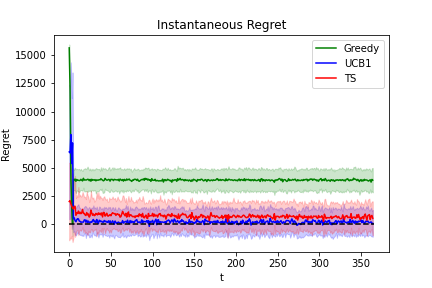
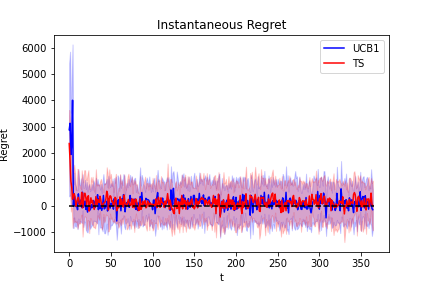
Step 1 completed

Changed region(s): [[0.1505, 0.1562, 0.8727, 0.8438], [0.0, 0.1562, 0.1204, 0.8438], [0.7222, 0.125, 0.9028, 0.3125]]

diff --git a/step_1.py b/step_1.py
@@ -8,35 +8,28 @@ from Learners.TS_Learner import TS_Learner
 from Learners.Greedy_Learner import Greedy_Learner
 from Learners.UCB1_Learner import UCB1_Learner
 
-# %% Create the three classes of users
+# %% Create user
 n_arm = 5
 Collector = UserC1()
 
-#selected_bid = np.argmax(Collector.click_vs_bid())
+T = 365
+n_experiments = 20
+
 selected_bid = 0.5
-#n_clicks = np.max(Collector.click_vs_bid())
-#cumulative_cost=Collector.cumulative_cost_vs_bid(selected_bid)
 n_clicks = Collector.click_vs_bid(selected_bid)
-cumulative_cost=Collector.cost_vs_bid(selected_bid)
+cost_of_click=Collector.cost_vs_bid(selected_bid)
 production_cost = 100
 
-avg_n_users = 1     # for future optimization
-#opt = max(Collector.prices * Collector.probabilities) * avg_n_users
-opt = max((Collector.prices-production_cost)*Collector.probabilities*n_clicks - cumulative_cost*n_clicks)
-
-T = 365
-
-n_experiments = 100
-ts_rewards_per_experiment = []
 gr_rewards_per_experiment = []
 ucb1_rewards_per_experiment = []
+ts_rewards_per_experiment = []
 
 # %% Run the experiments
 for e in range(0, n_experiments):
-    env = Environment(n_arms=n_arm, user=Collector)
-    ts_learner = TS_Learner(n_arms=n_arm, production_cost=production_cost, n_clicks=n_clicks, cumulative_cost=cumulative_cost)
-    gr_learner = Greedy_Learner(n_arms=n_arm, production_cost=production_cost, n_clicks=n_clicks, cumulative_cost=cumulative_cost)
-    ucb1_learner = UCB1_Learner(n_arms=n_arm, production_cost=production_cost, n_clicks=n_clicks, cumulative_cost=cumulative_cost, M = Collector._max_price)
+    env = Environment(n_arms=n_arm, user=Collector, selected_bid=selected_bid, production_cost=production_cost)
+    gr_learner = Greedy_Learner(n_arms=n_arm, production_cost=production_cost, n_clicks=n_clicks, cost_of_click=cost_of_click)
+    ucb1_learner = UCB1_Learner(n_arms=n_arm, production_cost=production_cost, n_clicks=n_clicks, cost_of_click=cost_of_click, M = Collector._max_price-production_cost)
+    ts_learner = TS_Learner(n_arms=n_arm, production_cost=production_cost, n_clicks=n_clicks, cost_of_click=cost_of_click)
     for t in range(0, T):
         # Greedy Learner
         pulled_arm = gr_learner.pull_arm()
@@ -59,7 +52,7 @@ for e in range(0, n_experiments):
     ts_rewards_per_experiment.append(ts_learner.collected_rewards)
 
 # %% Compute the regret
-# opt = env.max_reward()  # TODO implement this
+opt = env.max_reward()
 
 regret_greedy = opt - gr_rewards_per_experiment  # row = exp, col = t
 avg_regret_greedy = np.mean(regret_greedy, axis=0)
@@ -81,16 +74,16 @@ cum_std_regret_ts = np.std(np.cumsum(regret_ts, axis=1), axis=0)
 
 
 # %% Plot the cumulative regret
-fig = plt.figure(0)
+fig = plt.figure(0, facecolor='white')
 plt.xlabel("t")
 plt.ylabel("Regret")
-plt.plot(cum_avg_regret_greedy, 'g')
+# plt.plot(cum_avg_regret_greedy, 'g')
 plt.plot(cum_avg_regret_ucb1, 'b')
 plt.plot(cum_avg_regret_ts, 'r')
-plt.fill_between(range(len(cum_avg_regret_greedy)), cum_avg_regret_greedy - cum_std_regret_greedy, cum_avg_regret_greedy + cum_std_regret_greedy, alpha=0.2, color='g')
+#plt.fill_between(range(len(cum_avg_regret_greedy)), cum_avg_regret_greedy - cum_std_regret_greedy, cum_avg_regret_greedy + cum_std_regret_greedy, alpha=0.2, color='g')
 plt.fill_between(range(len(cum_avg_regret_ucb1)), cum_avg_regret_ucb1 - cum_std_regret_ucb1, cum_avg_regret_ucb1 + cum_std_regret_ucb1, alpha=0.2, color='b')
 plt.fill_between(range(len(cum_avg_regret_ts)), cum_avg_regret_ts - cum_std_regret_ts, cum_avg_regret_ts + cum_std_regret_ts, alpha=0.2, color='r')
-plt.legend(["Greedy", "UCB1", "TS"])
+plt.legend(["UCB1", "TS"]) # "Greedy",
 plt.title("Cumulative Regret")
 fig = plt.gcf()
 plt.show()
@@ -98,17 +91,17 @@ plt.show()
 fig.savefig("results/S1_cumulative_regret.png")
 
 # %% Plot the instantaneous regret
-fig = plt.figure(1)
+fig = plt.figure(1, facecolor='white')
 plt.xlabel("t")
 plt.ylabel("Regret")
-plt.plot(avg_regret_greedy, 'g')
+# plt.plot(avg_regret_greedy, 'g')
 plt.plot(avg_regret_ucb1, 'b')
 plt.plot(avg_regret_ts, 'r')
-plt.fill_between(range(len(avg_regret_greedy)), avg_regret_greedy - std_regret_greedy, avg_regret_greedy + std_regret_greedy, alpha=0.2, color='g')
+# plt.fill_between(range(len(avg_regret_greedy)), avg_regret_greedy - std_regret_greedy, avg_regret_greedy + std_regret_greedy, alpha=0.2, color='g')
 plt.fill_between(range(len(avg_regret_ucb1)), avg_regret_ucb1 - std_regret_ucb1, avg_regret_ucb1 + std_regret_ucb1, alpha=0.2, color='b')
 plt.fill_between(range(len(avg_regret_ts)), avg_regret_ts - std_regret_ts, avg_regret_ts + std_regret_ts, alpha=0.2, color='r')
 plt.hlines(0, 0, T, colors='black', linestyles='dashed')
-plt.legend(["Greedy", "UCB1", "TS"])
+plt.legend(["UCB1", "TS"]) # "Greedy",
 plt.title("Instantaneous Regret")
 fig = plt.gcf()
 plt.show()
@@ -133,16 +126,16 @@ cum_std_rreward_ts = np.std(np.cumsum(ts_rewards_per_experiment, axis=1), axis=0
 
 
 # %% Plot the cumulative reward
-plt.figure(2)
+plt.figure(2, facecolor='white')
 plt.xlabel("t")
 plt.ylabel("Reward")
-plt.plot(cum_avg_reward_greedy, 'g')
+# plt.plot(cum_avg_reward_greedy, 'g')
 plt.plot(cum_avg_reward_ucb1, 'b')
 plt.plot(cum_avg_reward_ts, 'r')
-plt.fill_between(range(len(cum_avg_reward_greedy)), cum_avg_reward_greedy - cum_std_rreward_greedy, cum_avg_reward_greedy + cum_std_rreward_greedy, alpha=0.2, color='g')
+# plt.fill_between(range(len(cum_avg_reward_greedy)), cum_avg_reward_greedy - cum_std_rreward_greedy, cum_avg_reward_greedy + cum_std_rreward_greedy, alpha=0.2, color='g')
 plt.fill_between(range(len(cum_avg_reward_ucb1)), cum_avg_reward_ucb1 - cum_std_reward_ucb1, cum_avg_reward_ucb1 + cum_std_reward_ucb1, alpha=0.2, color='r')
 plt.fill_between(range(len(cum_avg_reward_ts)), cum_avg_reward_ts - cum_std_rreward_ts, cum_avg_reward_ts + cum_std_rreward_ts, alpha=0.2, color='b')
-plt.legend(["Greedy", "UCB1", "TS"])
+plt.legend(["UCB1", "TS"]) # "Greedy",
 plt.title("Cumulative Reward")
 fig = plt.gcf()
 plt.show()
@@ -150,17 +143,17 @@ plt.show()
 fig.savefig("results/S1_cumulative_reward.png")
 
 # %% Plot the instantaneous reward
-plt.figure(3)
+plt.figure(3, facecolor='white')
 plt.xlabel("t")
 plt.ylabel("Reward")
-plt.plot(avg_reward_greedy, 'g')
+# plt.plot(avg_reward_greedy, 'g')
 plt.plot(avg_reward_ucb1, 'b')
 plt.plot(avg_reward_ts, 'r')
 plt.hlines(y=opt, xmin=0, xmax=T, colors='k', linestyles='dashed')
-plt.fill_between(range(len(avg_reward_greedy)), avg_reward_greedy - std_reward_greedy, avg_reward_greedy + std_reward_greedy, alpha=0.2, color='g')
+# plt.fill_between(range(len(avg_reward_greedy)), avg_reward_greedy - std_reward_greedy, avg_reward_greedy + std_reward_greedy, alpha=0.2, color='g')
 plt.fill_between(range(len(avg_reward_ucb1)), avg_reward_ucb1 - std_reward_ucb1, avg_reward_ucb1 + std_reward_ucb1, alpha=0.2, color='b')
 plt.fill_between(range(len(avg_reward_ts)), avg_reward_ts - std_reward_ts, avg_reward_ts + std_reward_ts, alpha=0.2, color='r')
-plt.legend(["Greedy", "UCB1", "TS", "Clairvoyant"])
+plt.legend(["UCB1", "TS", "Clairvoyant"]) # "Greedy", 
 plt.title("Instantaneous Reward")
 fig = plt.gcf()
 plt.show()

diff --git a/Learners/TS_Learner.py b/Learners/TS_Learner.py
@@ -3,11 +3,11 @@ from Learners.Learner import *
 
 
 class TS_Learner(Learner):
-    def __init__(self,n_arms, production_cost, n_clicks, cumulative_cost):
+    def __init__(self,n_arms, production_cost, n_clicks, cost_of_click):
         super().__init__(n_arms)
         self.production_cost = production_cost
         self.n_clicks = n_clicks
-        self.cumulative_cost = cumulative_cost
+        self.cost_of_click = cost_of_click
         
         # Beta and Alpha parameters
         self.beta_param = np.ones((n_arms,2))
@@ -17,7 +17,8 @@ class TS_Learner(Learner):
     """
     def pull_arm(self, prices):
         # Get the index associated to the largest reward
-        max_ind = np.argmax(np.random.beta(self.beta_param[:,0],self.beta_param[:,1]) * prices)
+        margin = prices - self.production_cost
+        max_ind = np.argmax(np.random.beta(self.beta_param[:,0],self.beta_param[:,1]) * margin * self.n_clicks - self.cost_of_click*self.n_clicks)
         return max_ind
 
     """
@@ -26,9 +27,8 @@ class TS_Learner(Learner):
     def update(self, pulled_arm, reward, price):
         # Increase time
         self.t += 1
-        #gain = (price-self.production_cost)*reward*self.n_clicks - self.cumulative_cost
-        gain = (price-self.production_cost)*reward*self.n_clicks - self.cumulative_cost*self.n_clicks
-        self.update_observations(pulled_arm, gain) # TODO update with reward*price
+        gain = (price-self.production_cost)*reward - self.cost_of_click*self.n_clicks
+        self.update_observations(pulled_arm, gain) 
         # Update parameters
-        self.beta_param[pulled_arm,0] = self.beta_param[pulled_arm,0] + reward # ho sostituito reward con gain
-        self.beta_param[pulled_arm,1] = self.beta_param[pulled_arm,1] + 1.0 - reward # come riga sopra
+        self.beta_param[pulled_arm,0] = self.beta_param[pulled_arm,0] + int(reward)
+        self.beta_param[pulled_arm,1] = self.beta_param[pulled_arm,1] + self.n_clicks - int(reward)

diff --git a/Learners/UCB1_Learner.py b/Learners/UCB1_Learner.py
@@ -2,21 +2,20 @@ import numpy as np
 import matplotlib.pyplot as plt 
 
 from Environments.Users import  UserC1, UserC2, UserC3
-from Environments.Environment import Environment
 from Learners.Learner import Learner
 
 class UCB1_Learner(Learner):
 
-    def __init__(self, n_arms, production_cost, n_clicks, cumulative_cost, M):
+    def __init__(self, n_arms, production_cost, n_clicks, cost_of_click, M):
         super().__init__(n_arms)
         self.production_cost = production_cost
         self.n_clicks = n_clicks
-        self.cumulative_cost = cumulative_cost
+        self.cost_of_click = cost_of_click
 
         self.expected_rewards = np.zeros(n_arms)
         self.n_pulls = np.zeros(n_arms)
         self.upper_confidence_bounds = np.array([np.inf]*n_arms)
-        self.M = M          # max price (for UCB1)
+        self.M = M          # max gain (for UCB1)
 
     def pull_arm(self):
         for a in range(self.n_arms):
@@ -31,7 +30,6 @@ class UCB1_Learner(Learner):
     def update(self, pulled_arm, reward, price):
         self.t += 1
         self.n_pulls[pulled_arm] += 1
-        #gain = (price-self.production_cost)*reward*self.n_clicks - self.cumulative_cost
-        gain = (price-self.production_cost)*reward*self.n_clicks - self.cumulative_cost*self.n_clicks
-        self.update_observations(pulled_arm, gain)      # TODO update with reward*price
-        self.expected_rewards[pulled_arm] = (self.expected_rewards[pulled_arm] * (self.n_pulls[pulled_arm] - 1) + gain) / self.n_pulls[pulled_arm]  # TODO check t_elemnt
+        gain = (price-self.production_cost)*reward - self.cost_of_click*self.n_clicks
+        self.update_observations(pulled_arm, gain)     
+        self.expected_rewards[pulled_arm] = (self.expected_rewards[pulled_arm] * (self.n_pulls[pulled_arm] - 1) + gain) / self.n_pulls[pulled_arm]  

diff --git a/Environments/Environment_S1.py b/Environments/Environment_S1.py
@@ -4,20 +4,20 @@ from Environments.Users import *
 
 class Environment:
     
-    avg_n_users = 100
-    n_rounds = 365
-    selected_bid = 0.5
-
-    def __init__(self, n_arms = 5, user = UserC1()):
+    def __init__(self, n_arms = 5, user = UserC1(), selected_bid = 0.5, production_cost = 100):
         self.n_arms = n_arms  # 5 prices
         self.user = user
-        self.n_clicks = self.user.click_vs_bid(Environment.selected_bid)
+        self.n_clicks = self.user.click_vs_bid(selected_bid)  # Use the known curve
+        self.production_cost = production_cost
+        self.cost_of_click = self.user.cost_vs_bid(selected_bid)
 
     def round(self, pulled_arm):
         # Observation are communicated at the end of the day for all the customers
-        reward = np.random.binomial(self.n_clicks, self.user.probabilities[pulled_arm])/self.n_clicks
-        return reward 
+        reward = np.random.binomial(self.n_clicks, self.user.probabilities[pulled_arm])
+        return reward       # Number of items sold
     
     def max_reward(self):
         # Return the maximum reward given the selected bid
-        return Environment.avg_n_users * np.max(self.user.reward_of_prices)
+        opt = max((self.user.prices - self.production_cost) * self.user.probabilities * self.n_clicks - self.cost_of_click*self.n_clicks)
+        return opt
+    

diff --git a/Learners/Greedy_Learner.py b/Learners/Greedy_Learner.py
@@ -1,11 +1,11 @@
 from Learners.Learner import *
 
 class Greedy_Learner (Learner):
-    def __init__(self, n_arms, production_cost, n_clicks, cumulative_cost):
+    def __init__(self, n_arms, production_cost, n_clicks, cost_of_click):
         super().__init__(n_arms)
         self.production_cost = production_cost
         self.n_clicks = n_clicks
-        self.cumulative_cost = cumulative_cost
+        self.cost_of_click = cost_of_click
     
         self.expected_rewards = np.zeros(n_arms)
 
@@ -21,8 +21,7 @@ class Greedy_Learner (Learner):
     
     def update (self, pulled_arm, reward, price):
         self.t += 1
-        #gain = (price-self.production_cost)*reward*self.n_clicks - self.cumulative_cost
-        gain = (price-self.production_cost)*reward*self.n_clicks - self.cumulative_cost*self.n_clicks
-        self.update_observations(pulled_arm, gain)   # update with reward*price
+        gain = (price-self.production_cost)*reward - self.cost_of_click*self.n_clicks
+        self.update_observations(pulled_arm, gain)  
         self.expected_rewards[pulled_arm] = (self.expected_rewards[pulled_arm] * (self.t - 1) + gain) / self.t
     
